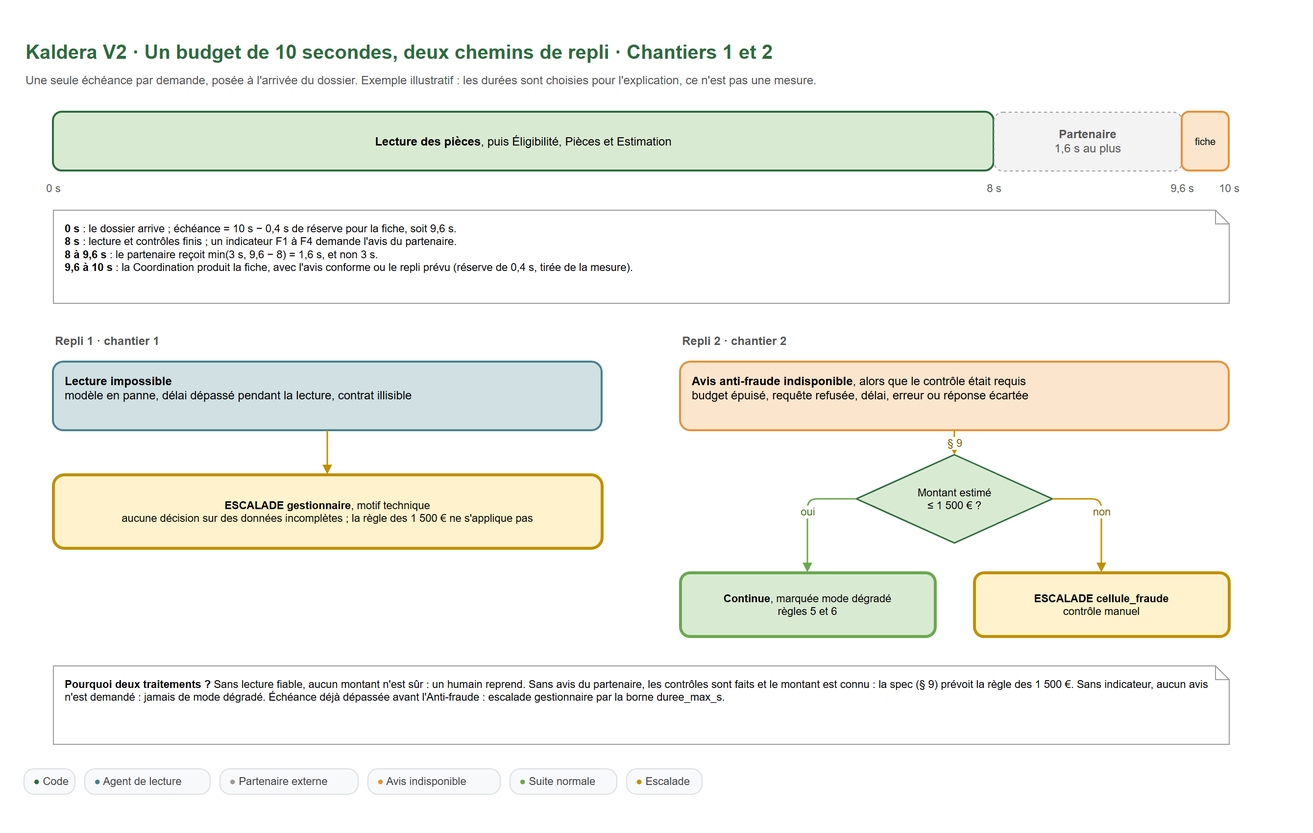
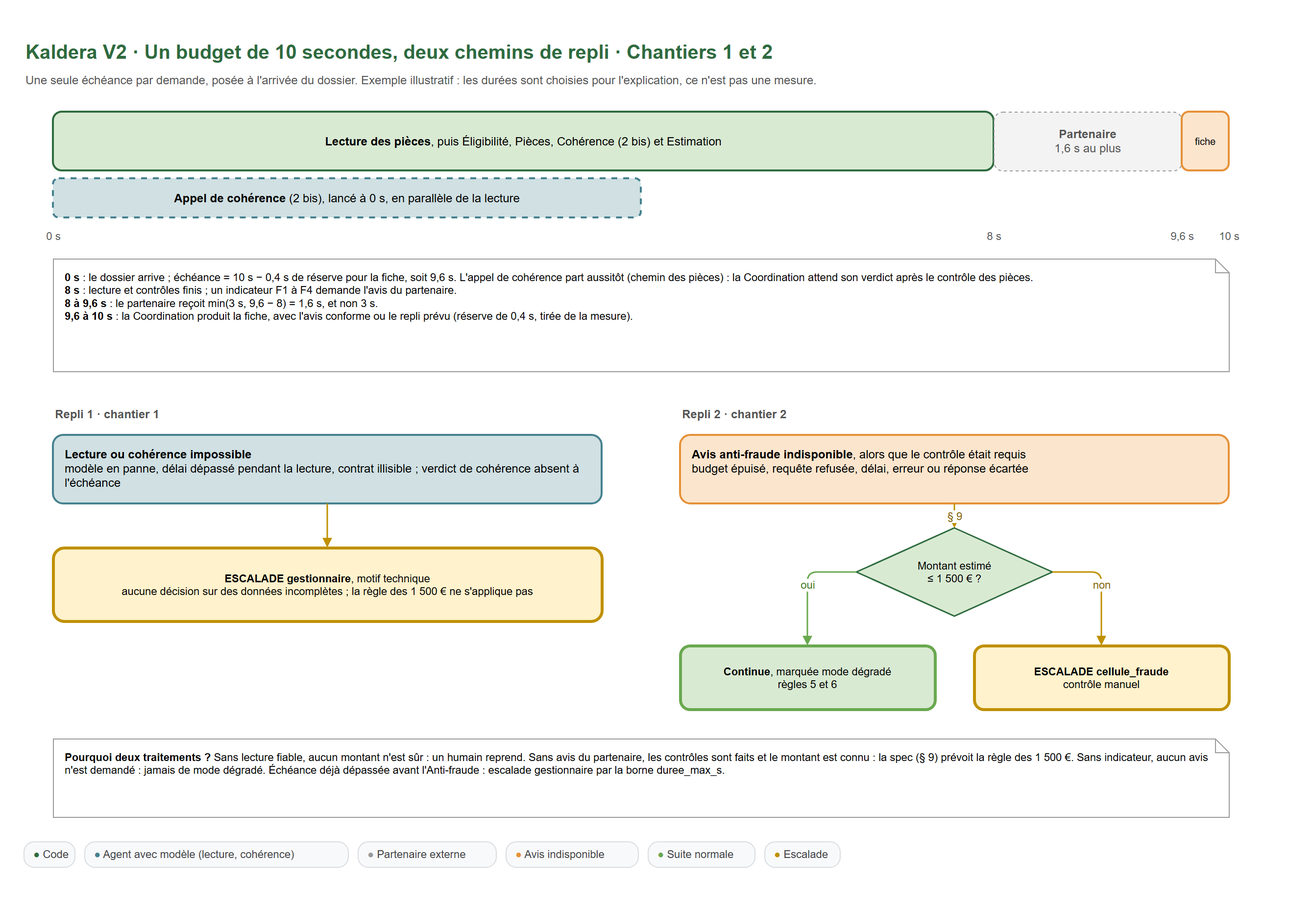
docs(schemas): agent Documents et coherence dans les schemas 0, 2, 3, 7 et N0
Schema 2 : etape et losange de coherence entre Pieces et Estimation, escalade
par. 5, note sur la place ; bornes : chemin des pieces 8 etapes sans marge.
Schema 3 : agent 2 bis et section coherence hors des 5 sections metier.
Schema 7 : appel de coherence lance a 0 s en parallele ; repli 1 etendu.
Schemas 0 et N0 : Q0, pattern retenu et reponse de la conception.

diff --git a/scripts/make_schemas_ch1.py b/scripts/make_schemas_ch1.py
@@ -141,11 +141,13 @@ s = Schema()
 s.box("t", "Kaldera V2 · Orchestration et terminaison garantie · Chantier 1", 30, 20, 1100, 30, S_TITRE)
 s.box("st", "Chaque losange est une règle de décision appliquée par la Coordination, dans l'ordre de la spec (§ 10) ; "
             "la première qui s'applique fixe l'issue. Contrôles en séquence (mis à jour le 08/10/2026) : une demande non "
-            "éligible ne fait jamais vérifier ses pièces. Chaque chemin finit par une décision ou par une escalade motivée.",
-      30, 54, 1300, 22, S_SOUS)
+            "éligible ne fait jamais vérifier ses pièces. La nuit : la cohérence des pièces (2 bis, § 5), sur le chemin "
+            "des pièces. Chaque chemin finit par une décision ou par une escalade motivée.",
+      30, 54, 1500, 22, S_SOUS)
 
 FIN_REF = S_FIN_OK + CENTRE + "fontSize=11;"
 FIN_ESC = S_FIN_ESC + CENTRE + "fontSize=11;"
+D = 205  # décalage vertical sous l'étape de cohérence
 s.box("s0", "<b>Demande reçue</b><br>état créé, section demande en lecture seule", 120, 95, 300, 52, S_ORCH + CENTRE)
 s.box("e", "<b>Éligibilité</b> (contrôle 1)<br>E1 à E5", 155, 172, 230, 55, S_AGENT + CENTRE)
 s.box("r1", "Éligible ?", 160, 255, 220, 90, S_LOSANGE)
@@ -156,25 +158,32 @@ s.box("r2", "Pièces exigées<br>présentes et lisibles ?", 160, 455, 220, 100, 
 s.box("c", "<b>Pièces : demande de complément</b> (2 au plus)<br>via l'espace assuré, puis nouveau contrôle", 480, 475, 340, 60, S_AGENT + CENTRE)
 s.box("t2", "<b>ESCALADE gestionnaire</b> · règle 2<br>motif : pièces manquantes", 880, 475, 300, 60, FIN_ESC)
 
-s.box("est", "<b>Estimation</b><br>justifié, retenu, franchise, plafond", 120, 595, 300, 58, S_AGENT + CENTRE)
-s.box("r3", "Montant estimé<br>nul ?", 160, 685, 220, 90, S_LOSANGE)
-s.box("t3", "<b>DÉCISION : REFUSÉE</b> · règle 3<br>0 € ; dommage inférieur ou égal à la franchise", 480, 700, 340, 60, FIN_REF)
+s.box("coh", "<b>Documents et cohérence</b> (2 bis)<br>chemin des pièces : verdict de l'appel lancé à l'arrivée",
+      120, 595, 300, 58, S_LECTEUR + CENTRE)
+s.box("rc", "Pièces cohérentes<br>avec la déclaration ?", 160, 680, 220, 100, S_LOSANGE)
+s.box("tc", "<b>ESCALADE gestionnaire</b> · § 5<br>contradiction (pièce citée), doute, ou contrôle impossible : trois "
+            "motifs distincts", 480, 695, 340, 70, FIN_ESC)
 
-s.box("r4", "Anti-fraude :<br>un indicateur F1 à F4 ?", 160, 810, 220, 100, S_LOSANGE)
-s.box("pa", "<b>Avis du partenaire</b> (chantier 2)<br>un seul appel, au plus 3 s dans le temps restant, aucune relance", 480, 830, 340, 60, S_EXT)
-s.box("t4a", "<b>ESCALADE gestionnaire</b> · avis modéré<br>motif : contrôle renforcé", 880, 780, 300, 56, FIN_ESC)
-s.box("t4b", "<b>ESCALADE cellule_fraude</b> · avis élevé<br>motif : suspicion de fraude", 880, 850, 300, 56, FIN_ESC)
-s.box("deg", "<b>Avis indisponible : mode dégradé</b> (§ 9)<br>délai dépassé, erreur ou réponse non conforme", 480, 940, 340, 60, S_EXT)
-s.box("t4c", "<b>ESCALADE cellule_fraude</b><br>montant estimé &gt; 1 500 €, mode dégradé", 880, 940, 300, 56, FIN_ESC)
+s.box("est", "<b>Estimation</b><br>justifié, retenu, franchise, plafond", 120, 595 + D, 300, 58, S_AGENT + CENTRE)
+s.box("r3", "Montant estimé<br>nul ?", 160, 685 + D, 220, 90, S_LOSANGE)
+s.box("t3", "<b>DÉCISION : REFUSÉE</b> · règle 3<br>0 € ; dommage inférieur ou égal à la franchise", 480, 700 + D, 340, 60, FIN_REF)
 
-s.box("r5", "Montant estimé<br>&gt; 10 000 € ?", 160, 1045, 220, 90, S_LOSANGE)
-s.box("t5", "<b>ESCALADE gestionnaire</b> · règle 5<br>motif : seuil de délégation dépassé", 480, 1060, 340, 60, FIN_ESC)
-s.box("t6", "<b>DÉCISION : ACCEPTÉE</b> · règle 6<br>montant remboursé = montant estimé", 120, 1175, 300, 60, FIN_REF)
+s.box("r4", "Anti-fraude :<br>un indicateur F1 à F4 ?", 160, 810 + D, 220, 100, S_LOSANGE)
+s.box("pa", "<b>Avis du partenaire</b> (chantier 2)<br>un seul appel, au plus 3 s dans le temps restant, aucune relance", 480, 830 + D, 340, 60, S_EXT)
+s.box("t4a", "<b>ESCALADE gestionnaire</b> · avis modéré<br>motif : contrôle renforcé", 880, 780 + D, 300, 56, FIN_ESC)
+s.box("t4b", "<b>ESCALADE cellule_fraude</b> · avis élevé<br>motif : suspicion de fraude", 880, 850 + D, 300, 56, FIN_ESC)
+s.box("deg", "<b>Avis indisponible : mode dégradé</b> (§ 9)<br>délai dépassé, erreur ou réponse non conforme", 480, 940 + D, 340, 60, S_EXT)
+s.box("t4c", "<b>ESCALADE cellule_fraude</b><br>montant estimé &gt; 1 500 €, mode dégradé", 880, 940 + D, 300, 56, FIN_ESC)
 
-s.box("bornes", "<b>Bornes provisoires</b><br>vérifiées par la Coordination avant chaque délégation<br><br>"
+s.box("r5", "Montant estimé<br>&gt; 10 000 € ?", 160, 1045 + D, 220, 90, S_LOSANGE)
+s.box("t5", "<b>ESCALADE gestionnaire</b> · règle 5<br>motif : seuil de délégation dépassé", 480, 1060 + D, 340, 60, FIN_ESC)
+s.box("t6", "<b>DÉCISION : ACCEPTÉE</b> · règle 6<br>montant remboursé = montant estimé", 120, 1175 + D, 300, 60, FIN_REF)
+
+s.box("bornes", "<b>Bornes</b>, tirées de la spec et de la mesure<br>vérifiées par la Coordination avant chaque délégation<br><br>"
                 "• Durée par demande : <b>10 s</b>, lecture des pièces comprise (spec § 12)<br>"
                 "• Étapes par demande : <b>8</b> au plus (une étape = une délégation = une ligne de trace)<br>"
-                "&nbsp;&nbsp;&nbsp;(chemin nominal : 5 ; plus 2 compléments ; plus 1 de marge)<br>"
+                "&nbsp;&nbsp;&nbsp;(chemin JSON : 5 ; plus 2 compléments ; plus 1 de marge)<br>"
+                "&nbsp;&nbsp;&nbsp;(chemin des pièces : 6, cohérence comprise ; plus 2 compléments : 8, sans marge)<br>"
                 "&nbsp;&nbsp;&nbsp;la dernière étape est réservée à l'issue : la trace ne dépasse jamais 8<br>"
                 "• Demandes de complément : <b>2</b> au plus<br>"
                 "• Même état vu deux fois : arrêt immédiat<br>"
@@ -183,15 +192,21 @@ s.box("bornes", "<b>Bornes provisoires</b><br>vérifiées par la Coordination av
                 "<b>Borne atteinte</b> : ESCALADE gestionnaire, et la fiche le signale dans <i>arret</i> (nom de la borne).<br><br>"
                 "<i>Fondées sur le chemin le plus long prévu par la spec et les scénarios ; "
                 "le chantier 2 les éprouve (BCL-01, PAN-02), chaque changement entre au journal des ajustements.</i>",
-      1240, 95, 400, 390, S_AMBIG + "fillColor=#fff2cc;strokeColor=#bf9000;arcSize=4;")
+      1240, 95, 400, 415, S_AMBIG + "fillColor=#fff2cc;strokeColor=#bf9000;arcSize=4;")
 s.box("qui", "<b>Qui décide que la demande est terminée ?</b><br>"
              "La Coordination seule, en écrivant la section issue (« seule la décision conclut la demande », § 2). "
              "Aucun autre état final : jamais « en attente » sans qu'un humain en soit saisi.",
-      1240, 505, 400, 110, S_NOTE)
+      1240, 530, 400, 110, S_NOTE)
 s.box("comp", "<b>Pourquoi le complément après l'éligibilité ?</b><br>"
               "Une demande non éligible est refusée quel que soit l'état de ses pièces (règle 1) : "
               "inutile de solliciter l'assuré. La Coordination décide le complément ; Pièces l'adresse.",
-      1240, 640, 400, 100, S_NOTE)
+      1240, 660, 400, 100, S_NOTE)
+s.box("pcoh", "<b>Pourquoi la cohérence à cet endroit ?</b><br>"
+              "Après un contrôle des pièces complet : une pièce manquante suit d'abord le complément. Après l'Éligibilité : "
+              "un refus du § 4 reste prioritaire. Avant l'Estimation : on ne chiffre pas des pièces qui contredisent la "
+              "déclaration. Le modèle décrit, le code rend le verdict ; aucune issue de la cohérence n'est une décision. "
+              "Sur le chemin JSON, l'étape n'existe pas.",
+      1240, 780, 400, 150, S_NOTE)
 
 s.edge("a1", "s0", "e", E_DELEG, "délègue", sortie=(0.5, 1), entree=(0.5, 0))
 s.edge("a3", "e", "r1", E_DEP, "", sortie=(0.5, 1), entree=(0.5, 0))
@@ -201,30 +216,33 @@ s.edge("b2b", "p", "r2", E_DEP, "", sortie=(0.5, 1), entree=(0.5, 0))
 s.edge("b3", "r2", "c", E_DEP, "non", sortie=(1, 0.5), entree=(0, 0.5))
 s.edge("b4", "c", "r2", E_DEP, "nouveau dépôt", [(650, 565), (330, 565)], sortie=(0.5, 1), entree=(0.77, 0.9))
 s.edge("b5", "c", "t2", E_ESC, "aucun dépôt du type", sortie=(1, 0.5), entree=(0, 0.5))
-s.edge("b6", "r2", "est", E_DEP, "oui", sortie=(0.5, 1), entree=(0.5, 0))
+s.edge("b6", "r2", "coh", E_DELEG, "oui : délègue", sortie=(0.5, 1), entree=(0.5, 0))
+s.edge("bc1", "coh", "rc", E_DEP, "", sortie=(0.5, 1), entree=(0.5, 0))
+s.edge("bc2", "rc", "tc", E_ESC, "non", sortie=(1, 0.5), entree=(0, 0.5))
+s.edge("bc3", "rc", "est", E_DEP, "oui (ou chemin JSON)", sortie=(0.5, 1), entree=(0.5, 0))
 s.edge("b7", "est", "r3", E_DEP, "", sortie=(0.5, 1), entree=(0.5, 0))
 s.edge("b8", "r3", "t3", E_OK, "oui", sortie=(1, 0.5), entree=(0, 0.5))
 s.edge("b9", "r3", "r4", E_DEP, "non", sortie=(0.5, 1), entree=(0.5, 0))
 s.edge("b10", "r4", "pa", E_EXT, "oui", sortie=(1, 0.5), entree=(0, 0.5))
-s.edge("b11", "pa", "t4a", E_ESC, "modéré", [(850, 850), (850, 808)], sortie=(1, 0.33), entree=(0, 0.5))
+s.edge("b11", "pa", "t4a", E_ESC, "modéré", [(850, 850 + D), (850, 808 + D)], sortie=(1, 0.33), entree=(0, 0.5))
 s.edge("b12", "pa", "t4b", E_ESC, "élevé", sortie=(1, 0.75), entree=(0, 0.5))
 s.edge("b13", "pa", "deg", E_EXT, "indisponible", sortie=(0.5, 1), entree=(0.5, 0))
 s.edge("b14", "deg", "t4c", E_ESC, "> 1 500 €", sortie=(1, 0.5), entree=(0, 0.5))
 # point de jonction sur l'axe : la demande poursuit vers la règle 5
-s.box("j", "", 264, 1009, 12, 12, "ellipse;fillColor=#333333;strokeColor=#333333;")
-s.edge("b15", "deg", "j", E_EXT, "", [(650, 1015)], sortie=(0.5, 1), entree=(1, 0.5))
-s.edge("b16", "pa", "j", E_EXT, "", [(440, 881), (440, 1015)], sortie=(0, 0.85), entree=(1, 0.5))
+s.box("j", "", 264, 1009 + D, 12, 12, "ellipse;fillColor=#333333;strokeColor=#333333;")
+s.edge("b15", "deg", "j", E_EXT, "", [(650, 1015 + D)], sortie=(0.5, 1), entree=(1, 0.5))
+s.edge("b16", "pa", "j", E_EXT, "", [(440, 881 + D), (440, 1015 + D)], sortie=(0, 0.85), entree=(1, 0.5))
 LIB = "text;html=1;fontFamily=Arial;fontSize=11;fontColor=#555555;align=center;verticalAlign=middle;whiteSpace=wrap;"
-s.box("lb16", "faible : poursuit", 300, 935, 130, 20, LIB)
-s.box("lb15", "≤ 1 500 € : continue, marquée mode dégradé", 470, 1021, 350, 18, LIB)
+s.box("lb16", "faible : poursuit", 300, 935 + D, 130, 20, LIB)
+s.box("lb15", "≤ 1 500 € : continue, marquée mode dégradé", 470, 1021 + D, 350, 18, LIB)
 s.edge("b17", "r4", "j", E_DEP, "non", sortie=(0.5, 1), entree=(0.5, 0))
 s.edge("b17b", "j", "r5", E_DEP, "", sortie=(0.5, 1), entree=(0.5, 0))
 s.edge("b18", "r5", "t5", E_ESC, "oui", sortie=(1, 0.5), entree=(0, 0.5))
 s.edge("b19", "r5", "t6", E_OK, "non", sortie=(0.5, 1), entree=(0.5, 0))
 
-s.legende([(VERT, "Règle de la Coordination"), (BLEU, "Contrôle délégué"), (OK, "Fin : décision"),
-           (ESC, "Fin : escalade"), (GRIS, "Chantier 2"), (ORANGE, "Bornes provisoires")], 30, 1275)
-s.ecrire("schema-2-orchestration", "Orchestration et terminaison", 1670, 1325)
+s.legende([(VERT, "Règle de la Coordination"), (BLEU, "Contrôle délégué"), (CYAN, "Agent avec modèle"),
+           (OK, "Fin : décision"), (ESC, "Fin : escalade"), (GRIS, "Chantier 2"), (ORANGE, "Bornes")], 30, 1275 + D)
+s.ecrire("schema-2-orchestration", "Orchestration et terminaison", 1670, 1325 + D)
 
 # =============================================================================================================
 # Schéma 3 : la mémoire partagée de la demande
@@ -235,42 +253,48 @@ s.box("st", "Un état par demande. Seule la Coordination le lit et l'écrit : el
             "résultat et le range dans la section de cet agent ; la trace note quel agent a fourni chaque section (interface.md).",
       30, 54, 1600, 22, S_SOUS)
 
-s.box("agents", "Agents : appelés directement, ils ne voient pas l'état (flèches : entrées et résultat)", 30, 100, 380, 470, S_GROUPE)
+s.box("agents", "Agents : appelés directement, ils ne voient pas l'état (flèches : entrées et résultat)", 30, 100, 380, 490, S_GROUPE)
 AG = S_AGENT + "fontSize=11;"
-s.box("ae", "<b>Éligibilité</b><br>reçoit : contrat, sinistre (types et dates)", 50, 150, 340, 60, AG)
-s.box("ap", "<b>Pièces</b><br>reçoit : type de sinistre, pièces, dépôts de l'espace assuré", 50, 240, 340, 60, AG)
-s.box("aes", "<b>Estimation</b><br>reçoit : montant déclaré, formule, factures lisibles", 50, 330, 340, 60, AG)
+s.box("ae", "<b>Éligibilité</b><br>reçoit : contrat, sinistre (types et dates)", 50, 140, 340, 60, AG)
+s.box("ap", "<b>Pièces</b><br>reçoit : type de sinistre, pièces, dépôts de l'espace assuré", 50, 220, 340, 60, AG)
+s.box("acoh", "<b>Documents et cohérence</b> (2 bis, chemin des pièces)<br>reçoit : le sinistre déclaré ; les images "
+              "nettes du dossier, connues dès l'arrivée", 50, 300, 340, 70, S_LECTEUR + "fontSize=11;")
+s.box("aes", "<b>Estimation</b><br>reçoit : montant déclaré, formule, factures lisibles", 50, 390, 340, 60, AG)
 s.box("af", "<b>Anti-fraude</b><br>reçoit : 8 données, dont le montant justifié<br>"
-            f'<font color="{ROUGE}">ne reçoit jamais : identité, IBAN, description, pièces</font>', 50, 420, 340, 75, AG)
+            f'<font color="{ROUGE}">ne reçoit jamais : identité, IBAN, description, pièces</font>', 50, 470, 340, 75, AG)
 
 s.box("coord", "<b>Coordination</b><br>seule à lire et à écrire l'état<br><br>1. appelle l'agent avec ses entrées<br>"
                "2. reçoit son résultat<br>3. le range dans la section de cet agent<br>4. décide de l'appel suivant<br><br>"
-               "écrit aussi issue et la trace", 440, 100, 170, 470, S_ORCH)
+               "écrit aussi issue et la trace", 440, 100, 170, 490, S_ORCH)
 
-s.box("etat", "État de la demande · reference (KAL-AA-NNNN)", 660, 100, 600, 640, S_CONTENEUR)
+s.box("etat", "État de la demande · reference (KAL-AA-NNNN)", 660, 100, 600, 700, S_CONTENEUR)
 SEC_NEUTRE = BASE + GAUCHE + "rounded=0;fillColor=#ffffff;strokeColor=#999999;fontSize=11;"
 SEC_AGENT = BASE + GAUCHE + f"rounded=0;fillColor=#cfe2f3;strokeColor={BLEU};fontSize=11;"
 SEC_ORCH = BASE + GAUCHE + f"rounded=0;fillColor=#d9ead3;strokeColor={VERT};fontSize=11;"
+SEC_COH = BASE + GAUCHE + f"rounded=0;fillColor=#d0e0e3;strokeColor={CYAN};fontSize=11;"
 sections = [
     ("demande", "<b>demande</b> : la demande reçue (§ 3)<br>écrite à la création, puis en lecture seule", SEC_NEUTRE, 138),
     ("eligibilite", "<b>eligibilite</b> · résultat d'Éligibilité<br>éligible, conditions non remplies", SEC_AGENT, 210),
     ("pieces", "<b>pieces</b> · résultat de Pièces, rangé à nouveau après chaque dépôt<br>complet ou manquantes, factures lisibles", SEC_AGENT, 282),
-    ("estimation", "<b>estimation</b> · résultat d'Estimation<br>montant justifié, montant estimé", SEC_AGENT, 354),
+    ("coherence", "<b>coherence</b> · résultat de Documents et cohérence (chemin des pièces)<br>verdict et pièces en "
+                  "cause ; hors des 5 sections métier d'interface.md", SEC_COH, 354),
+    ("estimation", "<b>estimation</b> · résultat d'Estimation<br>montant justifié, montant estimé", SEC_AGENT, 426),
     ("avis_fraude", "<b>avis_fraude</b> · résultat d'Anti-fraude<br>non requis, avis (niveau, score, evaluation_id) ou indisponible "
                     "(raison)",
-     SEC_AGENT, 426),
+     SEC_AGENT, 498),
     ("issue", "<b>issue</b> · écrite par la Coordination, conclut la demande<br>décision ou escalade, montant, motif, file, mode dégradé",
-     SEC_ORCH, 506),
+     SEC_ORCH, 578),
     ("trace", "<b>trace</b> (hors métier), ajout seul : une étape par ligne<br>agent dont le résultat est rangé, section "
-              "remplie, durée, statut, raison d'un avis indisponible", SEC_ORCH, 584),
+              "remplie, durée, statut, raison d'un avis indisponible", SEC_ORCH, 656),
     ("hors", "<b>hors de l'état</b> : l'échéance de la demande, le registre des appels (une exécution) ; "
-             "arret est écrit dans la fiche", SEC_NEUTRE, 652),
+             "arret est écrit dans la fiche", SEC_NEUTRE, 724),
 ]
 for sid, texte, style, y in sections:
     s.box(sid, texte, 680, y, 560, 56 if sid not in ("hors",) else 44, style)
 
-for k, aid in enumerate(["ae", "ap", "aes", "af"]):
-    s.edge(f"io{aid}", "coord", aid, E_DEP + "startArrow=block;startFill=1;", "", sortie=(0, 0.13 + 0.19 * k), entree=(1, 0.5))
+for aid, y in [("ae", 170), ("ap", 250), ("acoh", 335), ("aes", 420), ("af", 507)]:
+    s.edge(f"io{aid}", "coord", aid, E_DEP + "startArrow=block;startFill=1;", "", sortie=(0, round((y - 100) / 490, 4)),
+           entree=(1, 0.5))
 s.edge("lit", "etat", "coord", E_DEP, "lit", sortie=(0, 0.12), entree=(1, 0.25))
 s.edge("range", "coord", "etat", E_DEP, "range", sortie=(1, 0.55), entree=(0, 0.42))
 
@@ -278,22 +302,23 @@ s.box("garde", "<b>Comment aucun agent n'écrase le travail d'un autre</b><br>"
                "• Seule la Coordination lit et écrit l'état ; aucun agent ne le reçoit.<br>"
                "• Une table fixe associe chaque agent à sa section ; ranger un résultat ailleurs est refusé (erreur de droits).<br>"
                "• pieces est remplie à nouveau après chaque dépôt ; les autres sections métier une seule fois.<br>"
+               "• coherence a son propre agent, hors des cinq sections métier : pieces reste au seul agent Pièces.<br>"
                "• La trace note, à chaque étape, l'agent dont le résultat est rangé et la section remplie : la règle se vérifie par un test.",
-      1310, 100, 400, 200, S_AMBIG)
+      1310, 100, 400, 230, S_AMBIG)
 s.box("vit", "<b>Où vit-elle ?</b><br>En mémoire, un objet par demande, créé au début du traitement. "
              "Jamais partagé entre deux demandes : le traitement d'une demande n'en retarde pas une autre (§ 12). "
              "À la fin, la fiche de décision est construite depuis issue, avis_fraude, trace et arret.",
-      1310, 320, 400, 140, S_NOTE)
+      1310, 350, 400, 140, S_NOTE)
 s.box("part", "<b>Partenaire anti-fraude</b><br>reçoit seulement les 7 champs du contrat, construits par Anti-fraude (chantier 2)",
-      1310, 480, 400, 70, S_EXT)
+      1310, 510, 400, 70, S_EXT)
 s.box("metr", "<b>Métriques par agent</b> (chantier 2)<br>calculées depuis la trace : appels, échecs, latence, appels externes",
-      1310, 620, 400, 70, S_EXT)
+      1310, 660, 400, 70, S_EXT)
 s.edge("m1", "avis_fraude", "part", E_EXT, "filtre", sortie=(1, 0.5), entree=(0, 0.5))
 s.edge("m2", "trace", "metr", E_EXT, "", sortie=(1, 0.5), entree=(0, 0.5))
 
-s.legende([(VERT, "Coordination"), (BLEU, "Agent et section remplie par son résultat"), (ORANGE, "Règle de rangement"),
-           (ROUGE, "Jamais transmis"), (GRIS, "Externe ou chantier 2")], 30, 770)
-s.ecrire("schema-3-memoire-partagee", "Mémoire partagée", 1740, 810)
+s.legende([(VERT, "Coordination"), (BLEU, "Agent et section remplie par son résultat"), (CYAN, "Agent avec modèle et sa section"),
+           (ORANGE, "Règle de rangement"), (ROUGE, "Jamais transmis"), (GRIS, "Externe ou chantier 2")], 30, 830)
+s.ecrire("schema-3-memoire-partagee", "Mémoire partagée", 1740, 870)
 
 # =============================================================================================================
 # Schéma 0 : le choix du pattern, arbre de décision
@@ -312,9 +337,9 @@ arbre_de_decision(
         ("q5", "<b>Q5</b> : quelles métriques par agent faut-il rendre visibles ?", S_QTECH),
     ],
     cotes=[
-        ("r0", "<b>Retenu</b> : deux agents de lecture (modèle, schéma strict) pour le contrat et les pièces. "
-               "<b>Écarté</b> : confier une règle chiffrée à un LLM ; éligibilité, pièces, montant, indicateurs et "
-               "décision restent en code (§ 4 à § 10).", S_RETENU, "retient"),
+        ("r0", "<b>Retenu</b> : un modèle là où il faut interpréter un document : deux agents de lecture et la "
+               "cohérence des pièces avec la déclaration (2 bis). <b>Écarté</b> : une règle chiffrée confiée à un LLM ; "
+               "règles, montant et décision restent en code (§ 4 à § 10).", S_RETENU, "retient"),
         ("r1", "<b>Écarté</b> : l'agent unique. Ses rôles ne peuvent pas être prouvés séparément ; la trace exige un agent par section.",
          S_ECARTE, "écarte"),
         ("r2", "<b>Écarté</b> : un planificateur LLM qui invente les étapes. Le parcours est fixé par la spec (§ 2), "
@@ -326,13 +351,14 @@ arbre_de_decision(
         ("r5", "<b>Ajouté</b> : une trace à chaque étape (agent, sections écrites), source des métriques par agent.",
          S_RETENU, "ajoute"),
     ],
-    reponses=["en partie : règles chiffrées, avis externe, mais des documents à lire", "non",
+    reponses=["en partie : règles chiffrées, avis externe ; des documents à lire et à confronter", "non",
               "oui : éligibilité et pièces, estimation, anti-fraude, issue (§ 2)",
               "dans une demande, non utile (0,01 ms par contrôle) ; entre demandes, oui", "oui",
               "appels, échecs, latence, appels externes (interface.md)"],
     final="<b>Pattern retenu</b> : une Coordination centrale en code (pattern superviseur), seule à conclure · quatre "
-          "contrôles déterministes, chacun maître d'une seule section, en séquence avec court-circuit · deux agents de "
-          "lecture en amont (phase E) · un seul appel au partenaire · une trace à chaque étape",
+          "contrôles déterministes, chacun maître d'une seule section, en séquence avec court-circuit · un agent de "
+          "cohérence des pièces (2 bis, modèle qui décrit, verdict en code) · deux agents de lecture en amont (phase E) · "
+          "un seul appel au partenaire · une trace à chaque étape",
     tension="<b>Tension à arbitrer</b> : le code est prévisible mais rigide ; un système tout agentique est souple mais "
             "difficile à garantir. Ici chaque règle est chiffrée et les engagements sont absolus (issue garantie, 10 s) : "
             "un squelette en code, l'avis externe venant du partenaire.",

diff --git a/scripts/make_schemas_ch2.py b/scripts/make_schemas_ch2.py
@@ -245,32 +245,36 @@ s.box("t", "Kaldera V2 · Un budget de 10 secondes, deux chemins de repli · Cha
 s.box("st", "Une seule échéance par demande, posée à l'arrivée du dossier. Exemple illustratif : les durées sont "
             "choisies pour l'explication, ce n'est pas une mesure.", 30, 54, 1250, 22, S_SOUS)
 PX = 120  # pixels par seconde
-s.box("seg1", "<b>Lecture des pièces</b>, puis Éligibilité, Pièces et Estimation", 60, 100, 8 * PX, 60,
+s.box("seg1", "<b>Lecture des pièces</b>, puis Éligibilité, Pièces, Cohérence (2 bis) et Estimation", 60, 100, 8 * PX, 60,
       S_ORCH + CENTRE)
+s.box("segc", "<b>Appel de cohérence</b> (2 bis), lancé à 0 s, en parallèle de la lecture", 60, 168, 5 * PX, 40,
+      S_LECTEUR + CENTRE + "dashed=1;")
 s.box("seg2", "<b>Partenaire</b><br>1,6 s au plus", 60 + 8 * PX, 100, int(1.6 * PX), 60, S_EXT + CENTRE)
 s.box("seg3", "fiche", 60 + int(9.6 * PX), 100, int(0.4 * PX), 60, S_AMBIG + CENTRE + "fontSize=10;")
 TICK = "text;html=1;fontFamily=Arial;fontSize=11;fontColor=#555555;align=center;verticalAlign=top;"
 for libelle, sec in [("0 s", 0), ("8 s", 8), ("9,6 s", 9.6), ("10 s", 10)]:
-    s.box(f"tk{sec}", libelle, 60 + int(sec * PX) - 30, 165, 60, 20, TICK)
-s.box("explic", "<b>0 s</b> : le dossier arrive ; échéance = 10 s − 0,4 s de réserve pour la fiche, soit 9,6 s.<br>"
+    s.box(f"tk{sec}", libelle, 60 + int(sec * PX) - 30, 214, 60, 20, TICK)
+s.box("explic", "<b>0 s</b> : le dossier arrive ; échéance = 10 s − 0,4 s de réserve pour la fiche, soit 9,6 s. "
+                "L'appel de cohérence part aussitôt (chemin des pièces) : la Coordination attend son verdict après le "
+                "contrôle des pièces.<br>"
                 "<b>8 s</b> : lecture et contrôles finis ; un indicateur F1 à F4 demande l'avis du partenaire.<br>"
                 "<b>8 à 9,6 s</b> : le partenaire reçoit min(3 s, 9,6 − 8) = 1,6 s, et non 3 s.<br>"
                 "<b>9,6 à 10 s</b> : la Coordination produit la fiche, avec l'avis conforme ou le repli prévu (réserve de 0,4 s, tirée de la mesure).",
-      60, 200, 1200, 95, S_NOTE)
+      60, 250, 1200, 115, S_NOTE)
 
-s.box("g_titre", "Repli 1 · chantier 1", 60, 320, 560, 30, S_SOUS + "fontStyle=1;")
-s.box("lect", "<b>Lecture impossible</b><br>modèle en panne, délai dépassé pendant la lecture, contrat illisible",
-      60, 355, 560, 70, S_LECTEUR)
+s.box("g_titre", "Repli 1 · chantier 1", 60, 395, 560, 30, S_SOUS + "fontStyle=1;")
+s.box("lect", "<b>Lecture ou cohérence impossible</b><br>modèle en panne, délai dépassé pendant la lecture, contrat "
+              "illisible ; verdict de cohérence absent à l'échéance", 60, 430, 560, 70, S_LECTEUR)
 s.box("lect_fin", "<b>ESCALADE gestionnaire</b>, motif technique<br>aucune décision sur des données incomplètes ; "
-                  "la règle des 1 500 € ne s'applique pas", 60, 470, 560, 75, FIN_ESC)
+                  "la règle des 1 500 € ne s'applique pas", 60, 545, 560, 75, FIN_ESC)
 s.edge("l1", "lect", "lect_fin", E_ESC, "", sortie=(0.5, 1), entree=(0.5, 0))
 
-s.box("d_titre", "Repli 2 · chantier 2", 700, 320, 560, 30, S_SOUS + "fontStyle=1;")
+s.box("d_titre", "Repli 2 · chantier 2", 700, 395, 560, 30, S_SOUS + "fontStyle=1;")
 s.box("avis", "<b>Avis anti-fraude indisponible</b>, alors que le contrôle était requis<br>budget épuisé, requête "
-              "refusée, délai, erreur ou réponse écartée", 700, 355, 560, 70, S_AMBIG)
-s.box("dd7", "Montant estimé<br>≤ 1 500 € ?", 880, 450, 200, 90, S_LOSANGE)
-s.box("cont7", "<b>Continue</b>, marquée mode dégradé<br>règles 5 et 6", 700, 570, 260, 65, FIN_OK)
-s.box("esc7", "<b>ESCALADE cellule_fraude</b><br>contrôle manuel", 1000, 570, 260, 65, FIN_ESC)
+              "refusée, délai, erreur ou réponse écartée", 700, 430, 560, 70, S_AMBIG)
+s.box("dd7", "Montant estimé<br>≤ 1 500 € ?", 880, 525, 200, 90, S_LOSANGE)
+s.box("cont7", "<b>Continue</b>, marquée mode dégradé<br>règles 5 et 6", 700, 645, 260, 65, FIN_OK)
+s.box("esc7", "<b>ESCALADE cellule_fraude</b><br>contrôle manuel", 1000, 645, 260, 65, FIN_ESC)
 s.edge("a1", "avis", "dd7", E_ESC, "§ 9", sortie=(0.5, 1), entree=(0.5, 0))
 s.edge("a2", "dd7", "cont7", E_OK, "oui", sortie=(0, 0.5), entree=(0.5, 0))
 s.edge("a3", "dd7", "esc7", E_ESC, "non", sortie=(1, 0.5), entree=(0.5, 0))
@@ -279,7 +283,7 @@ s.box("pourquoi", "<b>Pourquoi deux traitements ?</b> Sans lecture fiable, aucun
                   "Sans avis du partenaire, les contrôles sont faits et le montant est connu : la spec (§ 9) prévoit la "
                   "règle des 1 500 €. Sans indicateur, aucun avis n'est demandé : jamais de mode dégradé. Échéance déjà "
                   "dépassée avant l'Anti-fraude : escalade gestionnaire par la borne duree_max_s.",
-      60, 665, 1200, 80, S_NOTE)
-s.legende([(VERT, "Code"), (CYAN, "Agent de lecture"), (GRIS, "Partenaire externe"), (ORANGE, "Avis indisponible"),
-           (OK, "Suite normale"), (ESC, "Escalade")], 30, 770)
-s.ecrire("schema-7-budget-10-s", "Budget de 10 s et replis", 1300, 810)
+      60, 740, 1200, 80, S_NOTE)
+s.legende([(VERT, "Code"), (CYAN, "Agent avec modèle (lecture, cohérence)"), (GRIS, "Partenaire externe"),
+           (ORANGE, "Avis indisponible"), (OK, "Suite normale"), (ESC, "Escalade")], 30, 845)
+s.ecrire("schema-7-budget-10-s", "Budget de 10 s et replis", 1300, 885)

diff --git a/scripts/make_schemas_vues.py b/scripts/make_schemas_vues.py
@@ -44,11 +44,12 @@ s.box("contrat", "<b>Le partenaire a durci son contrat (version 2.0)</b><br><br>
                  + ok("Objectif : une issue pour chaque demande en 10 s, même partenaire en panne, prouvée sur "
                       "28 scénarios."), 30, 260, 650, 165, S_AMBIG)
 s.box("reponse", "<b>La réponse de la conception</b><br>"
-                 "• une Coordination en code et quatre agents de contrôle (niveau 1, chantier 1)<br>"
+                 "• une Coordination en code, quatre contrôles en code et des agents avec modèle pour les documents : "
+                 "lecture et cohérence avec la déclaration (niveau 1, chantier 1)<br>"
                  "• une mémoire de session lue et écrite par la seule Coordination<br>"
                  "• une liaison A2A filtrée et validée, avec un mode dégradé (niveau 1, chantier 2)<br>"
                  "• un plan d'épreuve de 28 scénarios, et un journal des ajustements (niveau 2)",
-      30, 445, 650, 135, S_ORCH)
+      30, 445, 650, 150, S_ORCH)
 
 EXIG = [
     ("E1", "Toute demande se termine par une décision ou une escalade humaine motivée, jamais par un blocage silencieux.",
